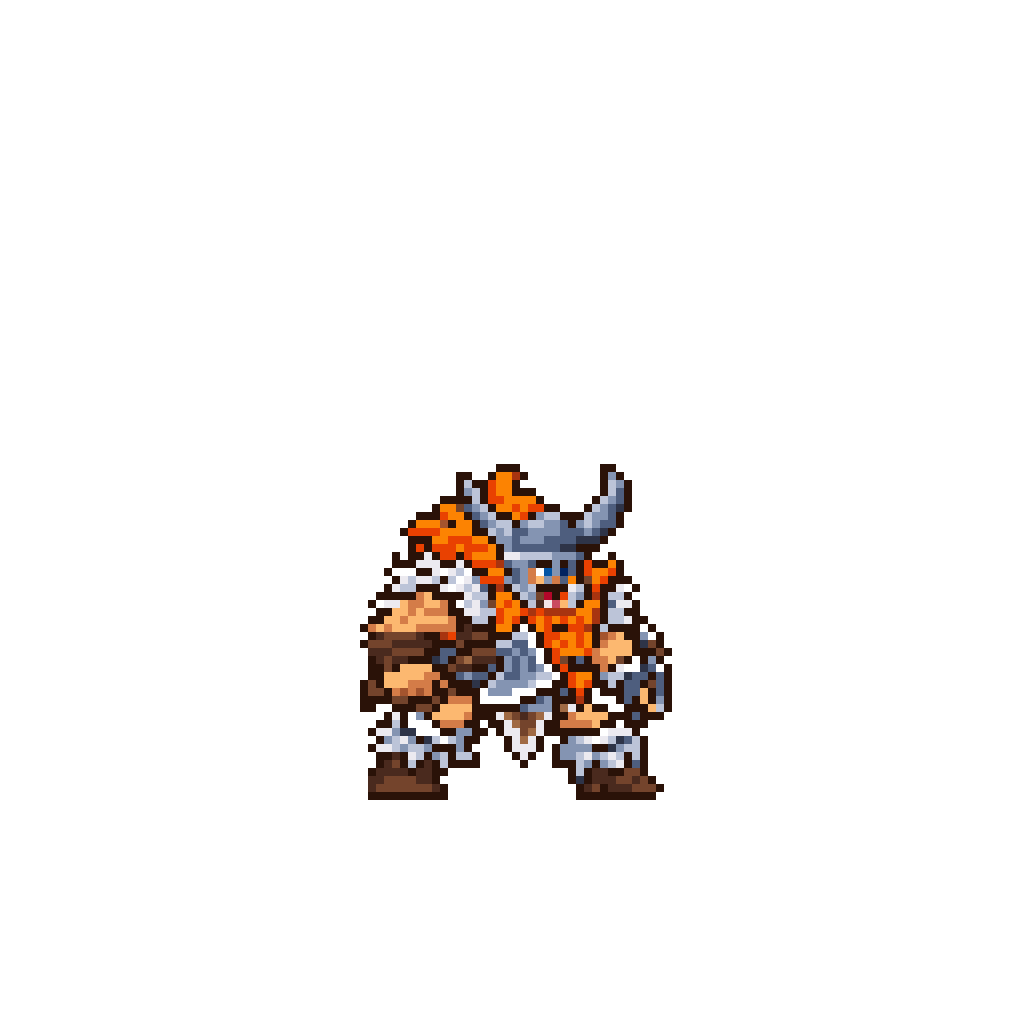
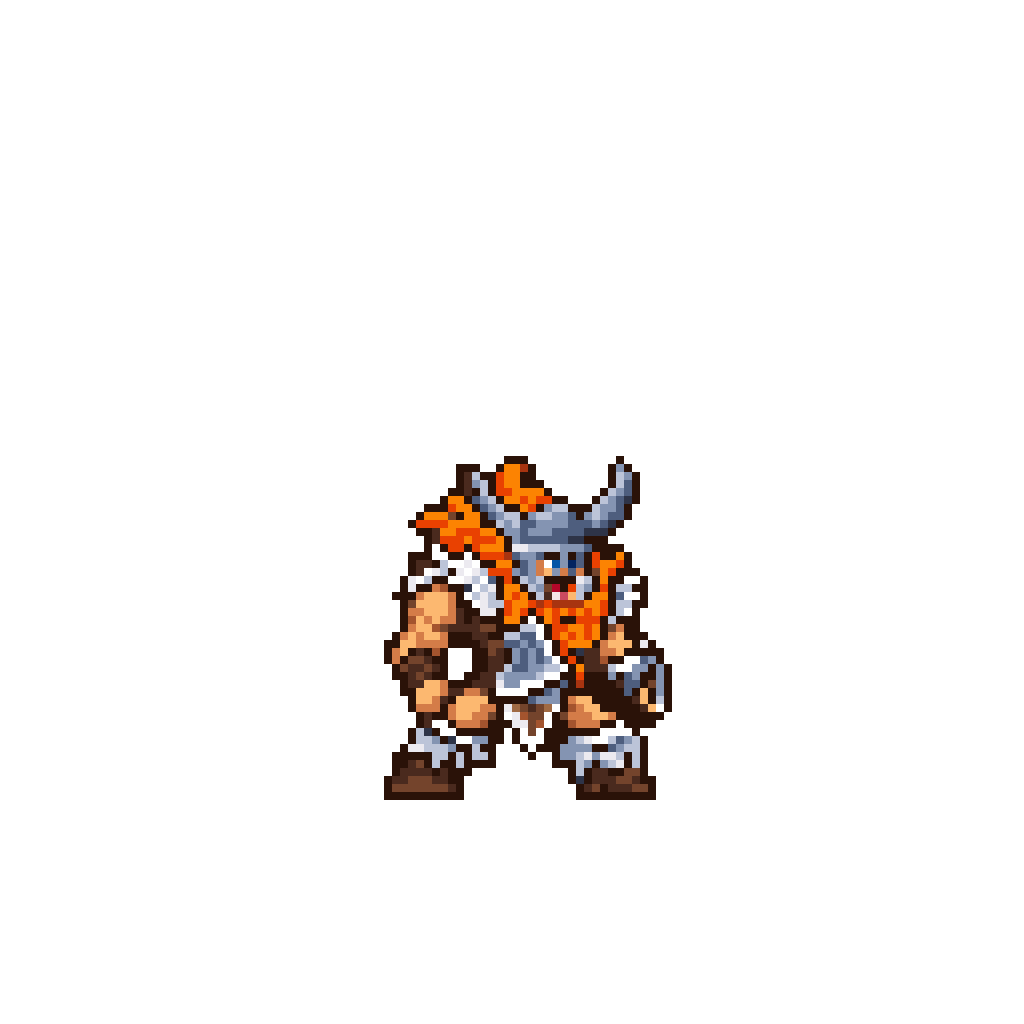
Olaf: the slimmer design (Codex's version B, the user's pick, the approved head pasted back) and the strips pack to redo the bodies
design_olaf.FINAL is now olaf_design_43.txt (43 x 36); FINAL_42 stays the head pasted on every frame. rig_olaf.grid
places a grid like design_olaf.on_canvas. The action strips still have the old body until Codex's redraw lands.

Changed region(s): [[0.3438, 0.4375, 0.6562, 0.7812], [0.625, 0.75, 0.6562, 0.7812]]

diff --git a/tools/art/rig_olaf.py b/tools/art/rig_olaf.py
@@ -42,7 +42,8 @@ import design_olaf as DO  # noqa: E402
 import rigkit as K  # noqa: E402
 
 NATIVE = os.path.join(ROOT, "assets", "source", "native")
-FINAL = os.path.join(ROOT, "assets", "source", "olaf", "design", "olaf_design_42.txt")
+FINAL = DO.FINAL                  # the design now (43 x 36, slimmer: version B)
+FINAL_42 = DO.FINAL_42            # the first approved design: its head is the head pasted on every frame
 POSES_JSON = os.path.join(ROOT, "assets", "source", "olaf", "poses.json")
 Z = 8
 PIVOT = (64, 88)                 # the design's standing point (the soles on row 99, the feet's middle on column 64)
@@ -97,9 +98,13 @@ FAR_FIST = ["0000", "0SK0", "0Kk0", "0000"]
 
 
 # ------------------------------------------------------------------------------------------------ the design's parts
-def grid():
-    rows = [r.rstrip("\r\n") for r in open(K.lp(FINAL), encoding="utf-8") if not r.startswith("#")]
-    return {(y + 58, x + 45): c for y, r in enumerate(rows) for x, c in enumerate(r) if c != "."}
+def grid(path=None):
+    """A letter grid on the canvas, placed as design_olaf.on_canvas places it (the soles on row 99, the feet's middle
+    on column 64; the 42-row grid lands on rows 58-99, columns 45-83 as before)."""
+    rows = [r.rstrip("\r\n") for r in open(K.lp(path or FINAL), encoding="utf-8") if not r.startswith("#")]
+    feet = [x for r in rows[-3:] for x, c in enumerate(r) if c != "."]
+    y0, x0 = SOLES + 1 - len(rows), int(round(PIVOT[0] - (min(feet) + max(feet)) / 2))
+    return {(y + y0, x + x0): c for y, r in enumerate(rows) for x, c in enumerate(r) if c != "."}
 
 
 def to_rgba(g):
@@ -147,8 +152,8 @@ def ring(a):
 
 
 class Parts:
-    def __init__(self):
-        g = grid()
+    def __init__(self, final=None):
+        g = grid(final)
         self.g = g
         self.design = to_rgba(g)
         nk, fk = near_arm_keys(g), far_arm_keys(g)

diff --git a/tools/art/design_olaf.py b/tools/art/design_olaf.py
@@ -20,7 +20,9 @@ The user then asked 「再精修一下吧 有点模糊啊」: the curated ramps 
 the hair's dark orange and kept 9 near-blacks), the lone near-duplicate squares merged (despeckle), and by hand on the
 letter grid (work/ol/polish_ol.py): both horns lit on their upper edge, the helmet as one clean dome with a swirl and a
 lit brim, both eyes (e, E) round the nose guard; the mouth back as the route drew it (「用之前的嘴」, with the tongue
-colour p). Approved 「用右边」 (2026-10-09): FINAL, 42 x 39, 21 colours.
+colour p). Approved 「用右边」 (2026-10-09): FINAL_42, 42 x 39, 21 colours. Then 「奥拉夫稍微瘦一点 肌肉明显点」: Codex
+redrew the body slimmer with clearer muscles (assets/source/olaf/codex_slim), the user picked B: FINAL, 43 x 36
+(the approved head pasted back on it, tools/art/fix_olaf_strips.with_head).
 
     python tools/art/design_olaf.py --final     # FINAL (the approved letter grid) -> OUT
 """
@@ -39,7 +41,9 @@ from regrid import regrid  # noqa: E402
 
 RAW = os.path.join(ROOT, "assets", "source", "olaf", "codex_model", "raw", "olaf_design_raw.png")
 OUT = os.path.join(ROOT, "assets", "source", "native", "olaf_native.png")
-FINAL = os.path.join(ROOT, "assets", "source", "olaf", "design", "olaf_design_42.txt")
+FINAL_42 = os.path.join(ROOT, "assets", "source", "olaf", "design", "olaf_design_42.txt")   # approved first (ab01f4b8)
+# slimmer (the user 2026-10-09: 「奥拉夫稍微瘦一点 肌肉明显点」): Codex's version B with the approved head pasted back
+FINAL = os.path.join(ROOT, "assets", "source", "olaf", "design", "olaf_design_43.txt")
 SOLE_ROW, MID_COL = 99, 64
 OUTLINE = (0x2A, 0x12, 0x08)
 # the palette: 3-4 shades a material (a median cut of the read-back merged the skin's shadows into the hair's dark

diff --git a/tools/art/fix_olaf_strips.py b/tools/art/fix_olaf_strips.py
@@ -298,12 +298,13 @@ def main():
     ap.add_argument("--no-write", action="store_true")
     ap.add_argument("--heads", action="store_true", help="print where each frame's head went")
     a = ap.parse_args()
-    P = RO.Parts()
+    P = RO.Parts()                     # the design now: the idle breathes it
+    H = RO.Parts(RO.FINAL_42)          # the head pasted on every frame is the first approved design's (unchanged)
     built = {"idle": [RO.breath(P, n) for n in RO.BREATH]}
     ms = {"idle": RO.ms_of("idle")}
     report = []
     for tag in CODEX_TAGS:
-        built[tag], ms[tag] = build(P, tag, report)
+        built[tag], ms[tag] = build(H, tag, report)
     if a.heads:
         for r in report:
             print(r)

diff --git a/assets/source/olaf/SLIM_STRIPS.md b/assets/source/olaf/SLIM_STRIPS.md
@@ -1,0 +1,53 @@
+# 奥拉夫：动作帧换成瘦一点、肌肉明显的身体（给 Codex）
+
+用户挑了瘦身造型 **B**（`design/olaf_design.png`）。动作已经通过了，**动作一帧都不改**，只把每一帧里的身体换成新造型的身材：
+
+- `now/olaf_<动作>.png`：**现在已通过的动作条**（8 倍，和以前一样的格子）。这是骨架：每一帧的姿势、头的位置、两只手、两把斧、两条腿、脚的位置、在格子里的位置，**全部照它**。
+- `design/olaf_design.png`：**新造型**（8 倍，43 行高，36 格宽）。这是皮：身体的宽窄和肌肉照它。
+- `design/olaf_old_vs_new.png`：之前和现在的造型并排——看清楚改了哪里：肩膀和背心那一段从 37 格收到 32 格左右，腰收进去（倒三角），手臂细 1–2 格，肩膀圆、二头肌鼓、大腿有肌肉块，用皮肤的三档颜色画（亮 `#FCB870`、中 `#D47C48`、暗 `#A4542E`，暗面做肌肉之间 1 格的分界）。
+
+## 每一帧怎么改
+
+- **姿势、位置不动**：头、手、斧、脚在格子里的位置和 now 条完全一样；跳起、跪下、趴下的帧也一样。
+- **身体变瘦、肌肉变明显**：背心/腰带/围腰窄一些，手臂细一点、肌肉分块清楚，大腿有肌肉。宽度大约比 now 条里的身体窄 10–15%，**不要整体缩小**——高度、头的大小、斧头的大小、靴子的大小都不变。
+- **头照画在同一个位置、同样大小**（导入时我们会换上定稿的头），胡子、鬃发、肩上白毛、护腕、护胫、靴子、两把斧的样子和颜色都不变。
+- 只用新造型里的 21 种颜色；每个像素是对齐网格的 8×8 方块；透明度只有 0 和 255；外轮廓 1 格近黑描边，肌肉里面不画黑线；**脚底线以下（每格第 81 行以下）什么都不能有**。
+- **排版和 now 条完全一样**：同样的图片尺寸、同样的格子，帧 N 在同一格。背景透明（做不到用纯青色 `#00FFFF`）。
+
+## 各张动作条
+
+| 文件 | 帧数 | 排版（列 × 行，像素） |
+|---|---|---|
+| `olaf_run.png`（跑步） | 8 | 4 × 2，3584×1536 |
+| `olaf_attack.png`（普攻） | 6 | 3 × 2，2688×1536 |
+| `olaf_skill.png`（Q 逆流投掷） | 6 | 3 × 2，2688×1536 |
+| `olaf_skill2.png`（E 鲁莽挥击） | 6 | 3 × 2，2688×1536 |
+| `olaf_ult.png`（R 诸神黄昏） | 6 | 3 × 2，2688×1536 |
+| `olaf_hit.png`（受击） | 2 | 2 × 1，1792×768 |
+| `olaf_dead.png`（死亡） | 8 | 4 × 2，3584×1536 |
+
+## 骨架 + 皮囊的提示词（图1 = now 条，图2 = 新造型）
+
+```text
+参考图1这张精灵图（已经定稿的动作），把图1里每一帧的角色身体换成图2的身材。
+1. 保留图1所有帧的位置、大小、排列顺序和格子，每一格是 8×8 像素的纯色方块；每一帧的姿势完全不变：头、手、斧头、腿、脚在格子里的位置和图1一样。
+2. 只改身体：照图2变瘦一点——肩膀和背心窄一些、腰收进去（倒三角），手臂细一点；肌肉更明显——圆的肩膀、鼓起的二头肌、粗壮的前臂、大腿的肌肉块，用图2皮肤的三档颜色画出体积，肌肉里面不画黑线。
+3. 高度、头的大小和样子、胡子、鬃发、肩上白毛、护腕、背心、腰带、毛皮围腰、尖刺护胫、靴子、两把斧，都和图1、图2一样，不变大也不变小。
+4. 只用图2的颜色；外轮廓 1 格近黑描边；脚底线以下没有像素。
+背景保持纯青色 #00FFFF，方便抠图。风格保持与图2一致。重点在于精准保留图1的"动作骨架"，只是换成图2更瘦、肌肉更明显的"皮囊"。
+```
+
+## 交回前自查
+
+- [ ] 图片尺寸、格子和 now 条完全一样，帧 N 在同一格；
+- [ ] 每一帧的姿势和 now 条一样（把你的帧和 now 条同一帧叠在一起看：头、手、斧、脚对得上）；
+- [ ] 身体比 now 条窄、肌肉分块清楚；高度、头、斧、靴子不变；
+- [ ] 严格 8×8 方块、二值透明、只用 21 色、脚底线以下没有像素、没有零散黑点；
+- [ ] `manifest.json`（每帧格子矩形、站位点 pivot = `olaf_cells.json` 里的那个、bbox、头的位置：两只眼睛和嘴的方块坐标），生图原稿放 `raw/`，最后写 `HANDOFF.md`。
+
+交付到 `outputs/olaf-slim-strips/`，最好打成 zip（`olaf_slim_strips_done.zip`）。
+
+## Claude 导入时（给 Claude 看）
+
+- `tools/art/fix_olaf_strips.py` 照旧：每帧在 Codex 画头的位置贴定稿的头（`RO.FINAL_42` 的头，没变），R 第 3、4 帧和死亡第 3、5–8 帧留 Codex 的头；`SRC` 改到这次的交付；待机是新造型（`RO.FINAL` = `olaf_design_43.txt`）呼吸。
+- 量每帧面积和肩宽对新造型；和旧动作条同一帧叠看姿势；`import_native.py --hero olaf`（只导奥拉夫！）；重做预览和实战 GIF。

diff --git a/assets/source/olaf/codex_slim/HANDOFF.md b/assets/source/olaf/codex_slim/HANDOFF.md
@@ -1,0 +1,25 @@
+# 奥拉夫瘦身重画：A / B 审阅版
+
+本轮只制作新的造型图，不修改动作条或特效。两版由imagegen编辑生成；B的第一张与A差别不足，另作一次生图修复，强调收腰和肩臂肌肉。原稿与实际提示词保存在raw/、prompts/。
+
+## 文件
+
+- olaf_design_slim_A.png / olaf_design_slim_B.png：1024×1024、8倍像素图。
+- 对应_1x.png：128×128逻辑像素。
+- olaf_slim_comparison.png：A / 现在 / B并排，统一放大比例。
+- olaf_design_current_1x.png：提供的原定稿，方便核对。
+- validation.json：实际尺寸、头部差异、脚底和格式检查。
+
+## 视觉变化
+
+A稍收腰和手臂，B进一步收腰并削薄近侧手臂轮廓；圆肩、二头肌和大腿以亮肤色、中肤色和暗肤色分块。仍保留双斧、毛皮、胡子、护腕、护胫和靴子的整体造型。
+
+## 实测与未做到之处
+
+原定稿39×42格。A为38×43格，B为36×43格，尚未达到要求的A约36宽、B约32–33宽和42行高。脚底均对齐第99行。
+
+生成器未能逐格锁定头部：原头部非透明掩模范围内，A有165个逻辑像素与原定稿不同，B有163个不同。头部、双斧及靴子不能视为已经逐格保留。站姿接近原稿，脚部轮廓和准确横向位置仍有差异。
+
+导出仅作整张画布网格多数取色、定稿21色色板映射、二值透明，以及整帧向上1格对齐脚底；未整体压窄、未删行列、未用脚本绘制肌肉或拼装身体，未把定稿头部粘回生成身体。PNG已回读检查8×8纯色方块、0/255透明度和仅定稿色板。
+
+这是供选方向的审阅图，尚未通过包内全部美术要求；不要直接当成已经锁定头部与尺寸的最终造型导入动作条。
